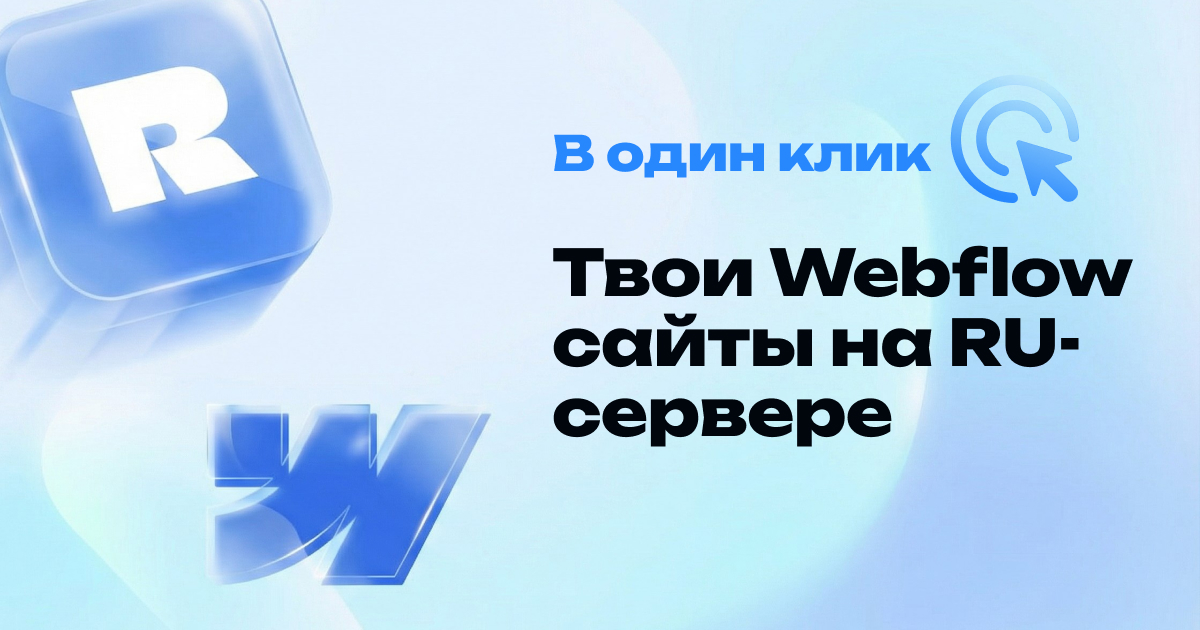
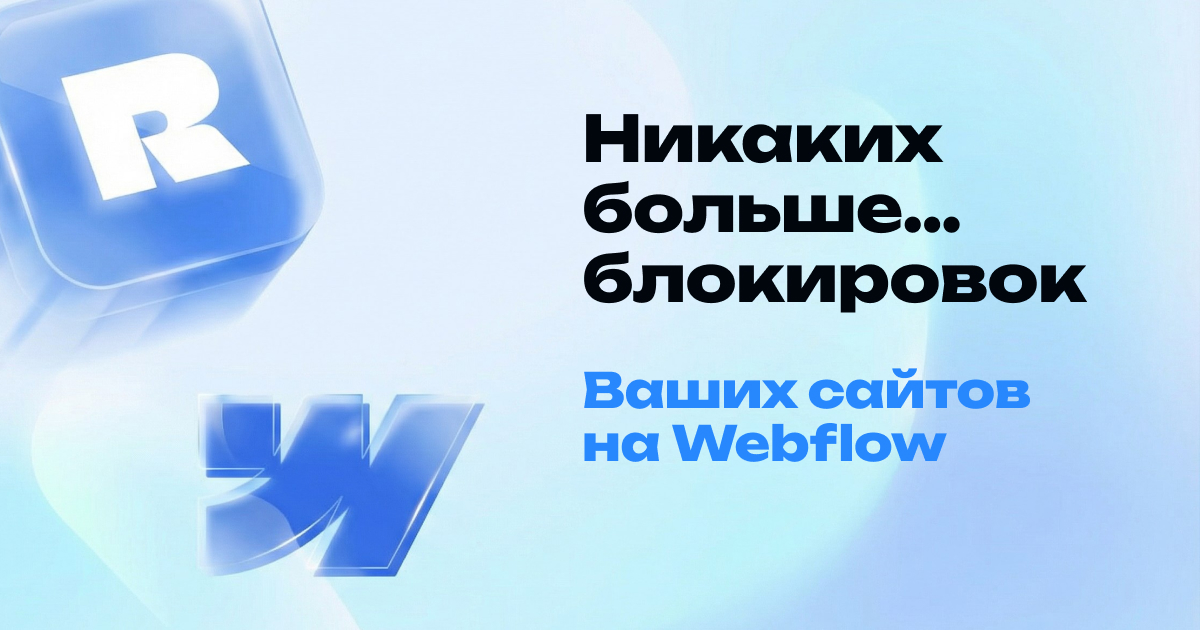
title-og-desc update

diff --git a/src/app/layout.tsx b/src/app/layout.tsx
@@ -17,12 +17,15 @@ const unbounded = Unbounded({
 });
 
 const SITE_URL = process.env.NEXT_PUBLIC_SITE_URL ?? "https://www.reflowapp.pro";
-const OG_IMAGE_PATH = "/figma/og.jpg?v=20260303-1";
+const OG_IMAGE_PATH = "/figma/og.jpg?v=20260304-1";
+const SITE_TITLE = "Reflow — Webflow без блокировок в России";
+const SITE_DESCRIPTION =
+  "Сервис публикации ваших Webflow сайтов в российский контур. 100% доступность, лучшая скорость, без VPN.";
 
 export const metadata: Metadata = {
   metadataBase: new URL(SITE_URL),
-  title: "Reflow — Webflow-сайты на RU-сервере в 1 клик!",
-  description: "100% доступность ваших Webflow-проектов для RU-пользователей",
+  title: SITE_TITLE,
+  description: SITE_DESCRIPTION,
   icons: {
     icon: [{ url: "/figma/icons/site-icon.png", sizes: "192x192", type: "image/png" }],
     apple: [
@@ -32,8 +35,8 @@ export const metadata: Metadata = {
   openGraph: {
     url: SITE_URL,
     siteName: "Reflow",
-    title: "Reflow — Webflow-сайты на RU-сервере в 1 клик!",
-    description: "100% доступность ваших Webflow-проектов для RU-пользователей",
+    title: SITE_TITLE,
+    description: SITE_DESCRIPTION,
     type: "website",
     locale: "ru_RU",
     images: [
@@ -42,14 +45,14 @@ export const metadata: Metadata = {
         width: 1200,
         height: 630,
         type: "image/jpeg",
-        alt: "Reflow — Webflow-сайты на RU-сервере в 1 клик!"
+        alt: SITE_TITLE
       }
     ]
   },
   twitter: {
     card: "summary_large_image",
-    title: "Reflow — Webflow-сайты на RU-сервере в 1 клик!",
-    description: "100% доступность ваших Webflow-проектов для RU-пользователей",
+    title: SITE_TITLE,
+    description: SITE_DESCRIPTION,
     images: [OG_IMAGE_PATH]
   }
 };
